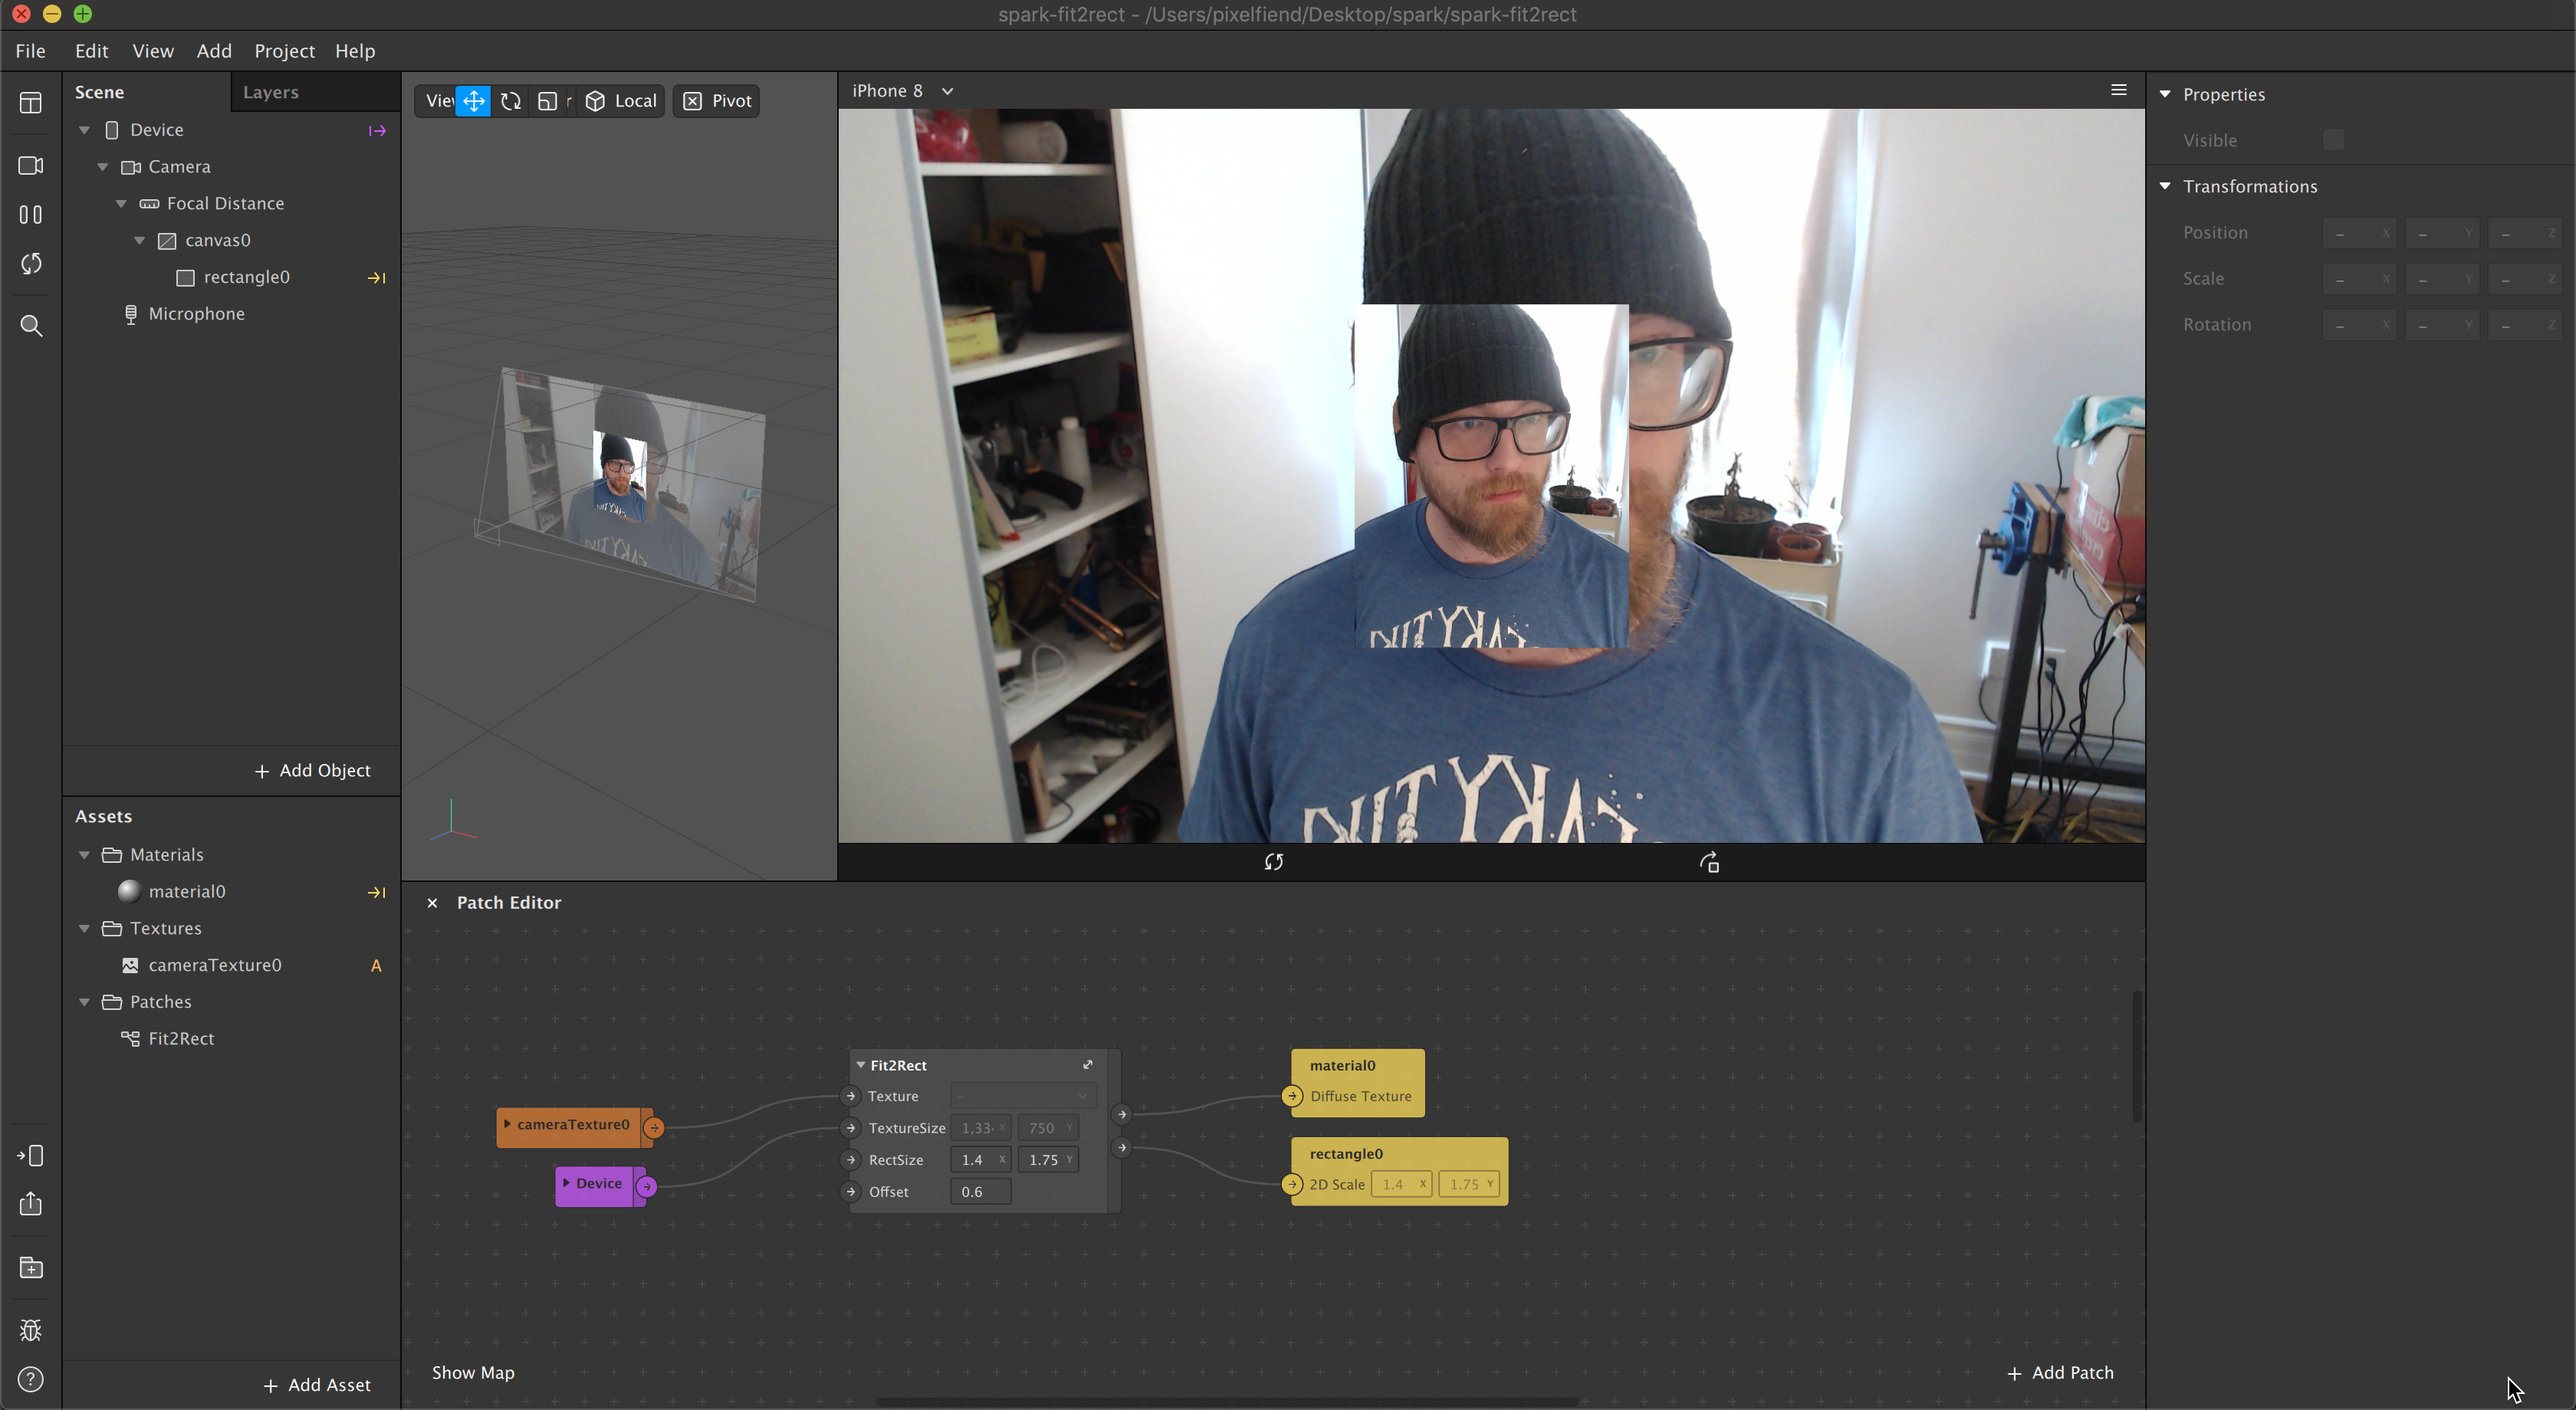
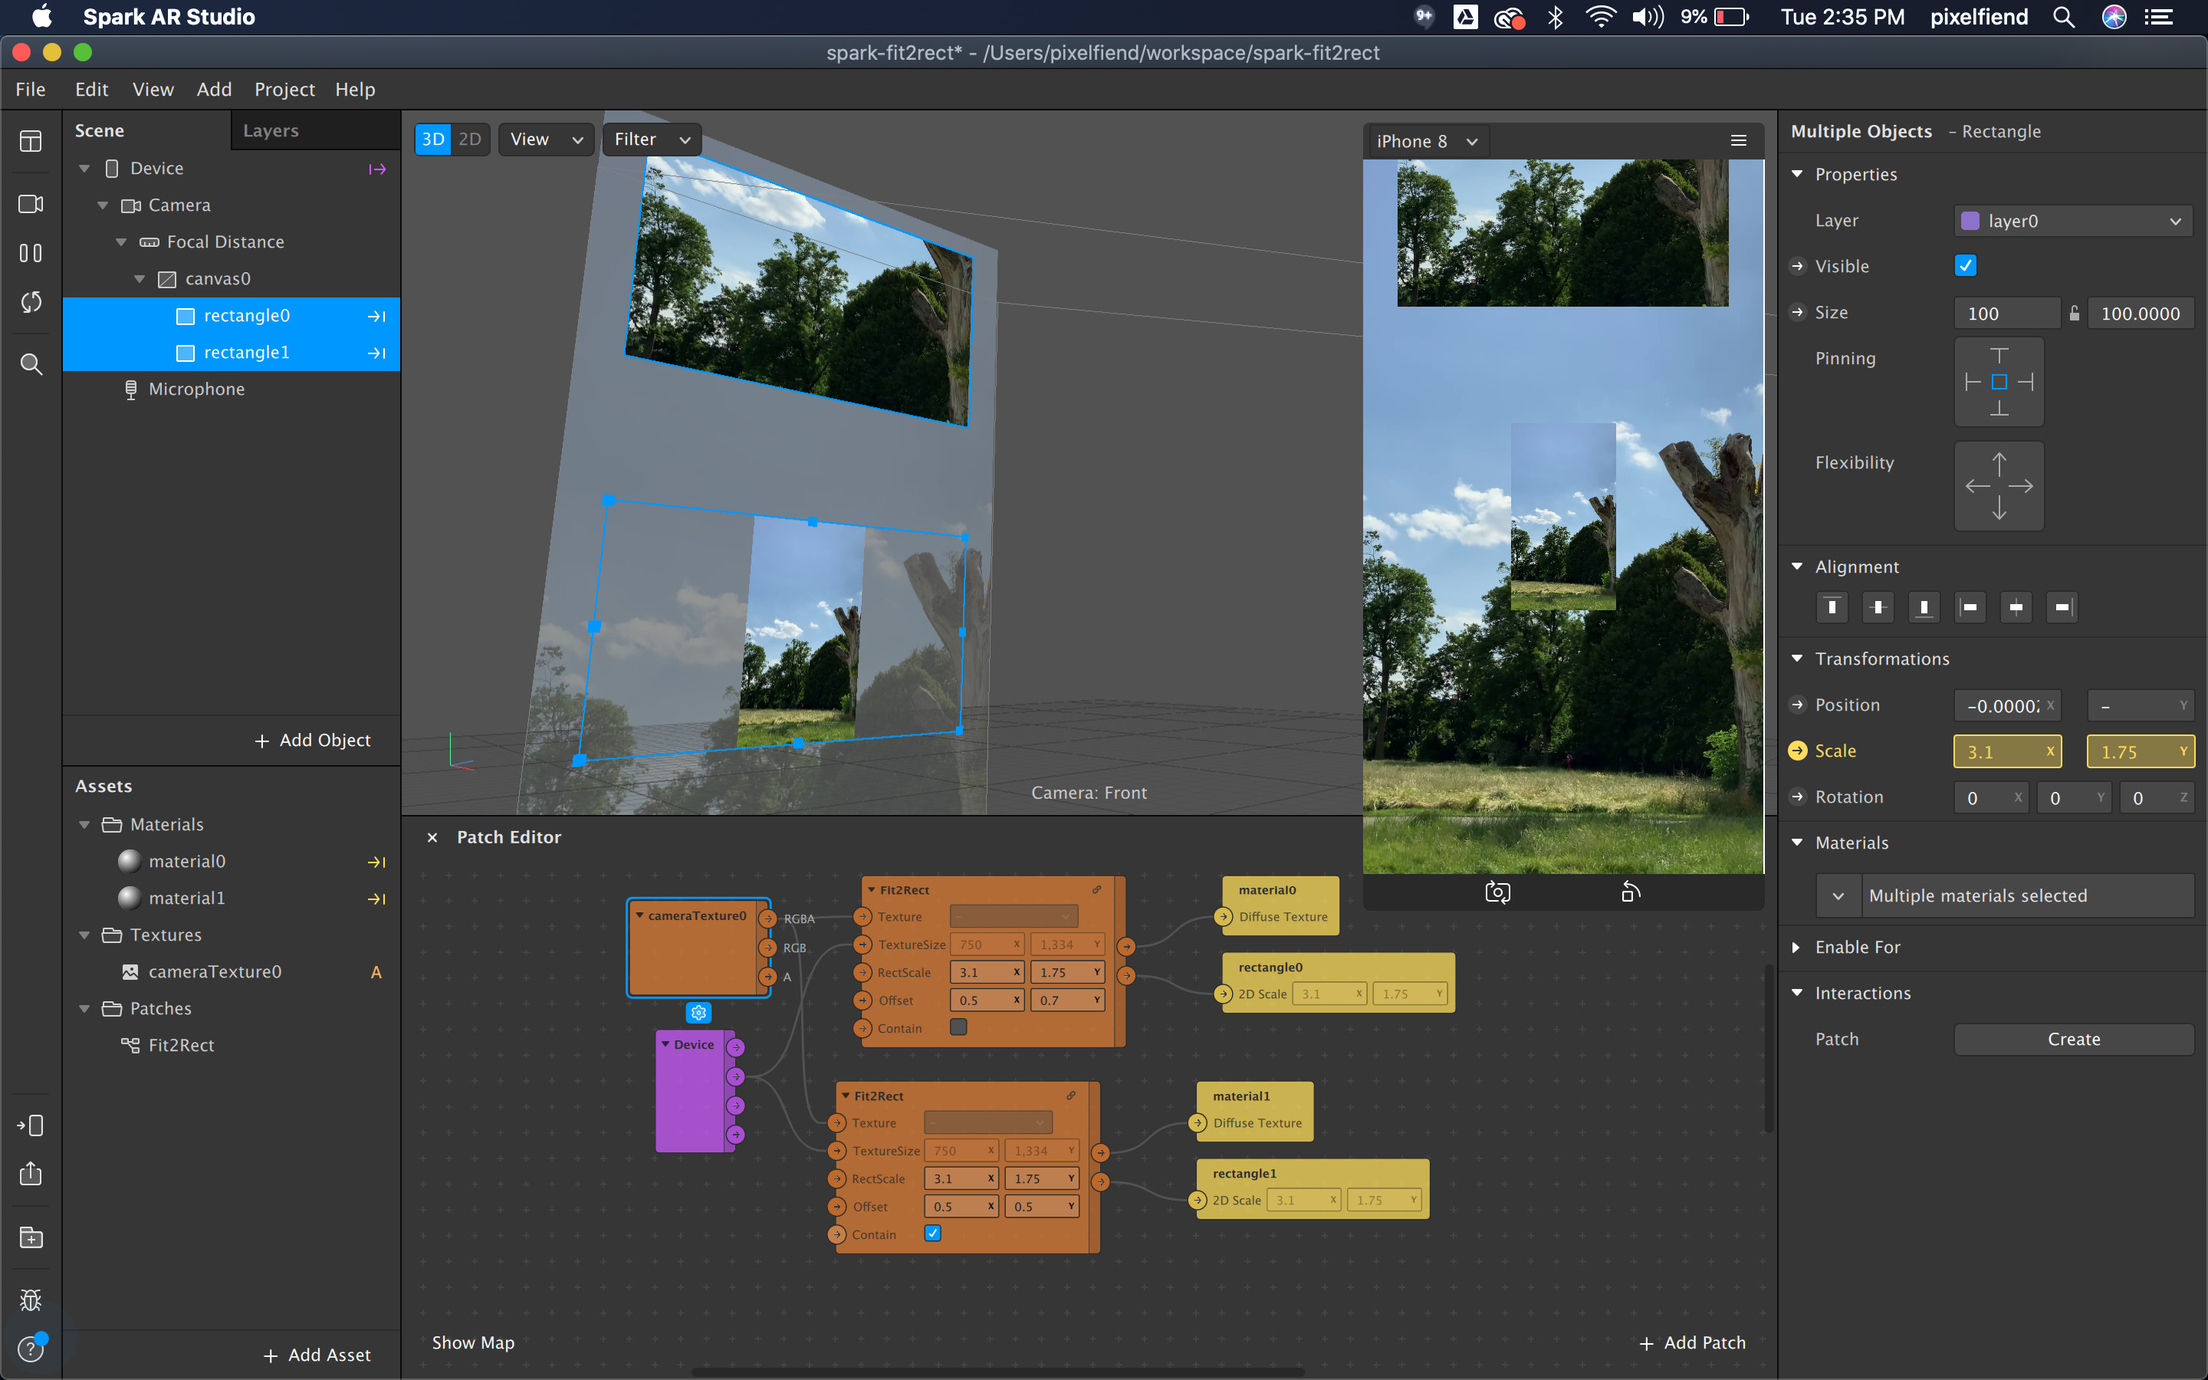
add contain option

diff --git a/README.md b/README.md
@@ -2,6 +2,8 @@
 
 This utility patch will make your texture cover the entire rectangle, without any distortion. You can also set the pivot point to control the alignment of the texture. See the demo video for more information.
 
+Update: there is now an option to contain the texture to the rect instead of filling
+
 [Demo on YouTube](https://youtu.be/tX2uyytflM4)
 
 [![](./screenshot.jpg)](https://youtu.be/tX2uyytflM4)
